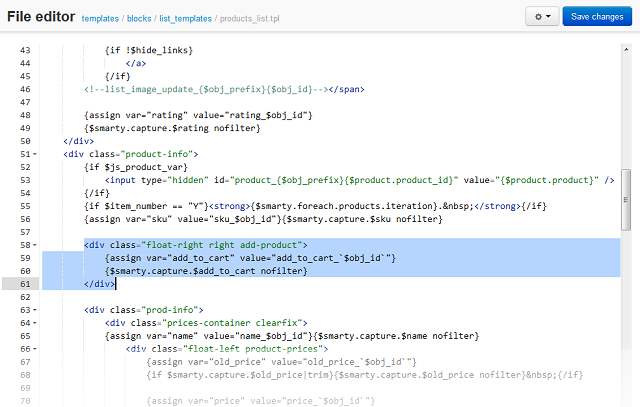
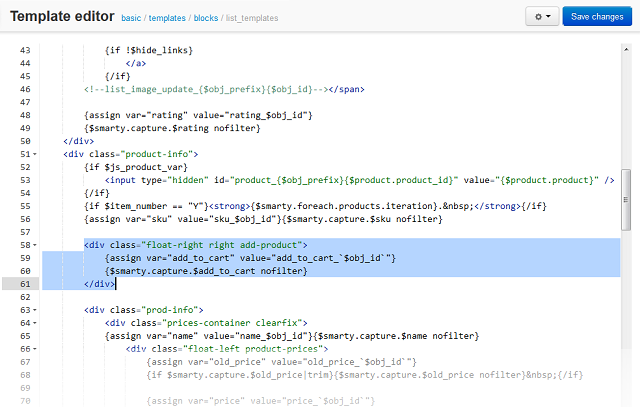
Core: Representing data: Template editor: Minor fixes

Changed region(s): [[0.0, 0.0295, 0.4375, 0.059]]

diff --git a/core/representing_data/file_editor.rst b/core/representing_data/file_editor.rst
@@ -6,7 +6,7 @@ It is possible to edit source code of the theme files directly from your adminis
 
 .. note::
 
-	The file editor is based on Javascript. So, Javascript must be enabled in your web browser.
+	The template editor is based on Javascript. So, Javascript must be enabled in your web browser.
 
 To edit files:
 
